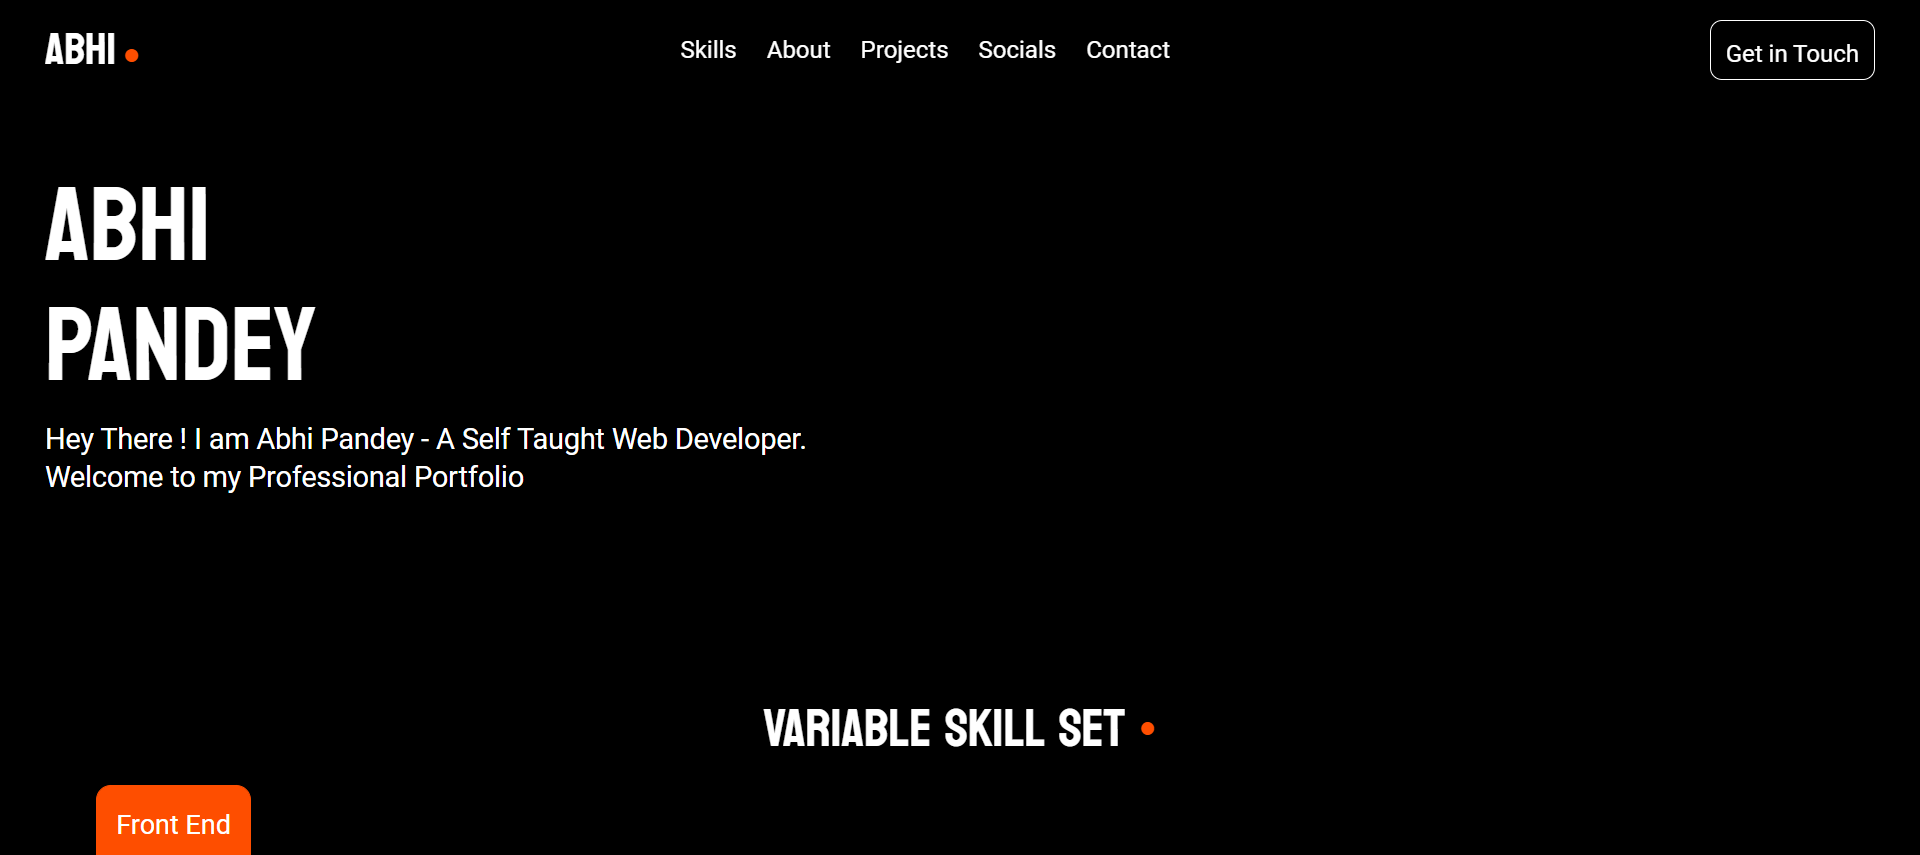
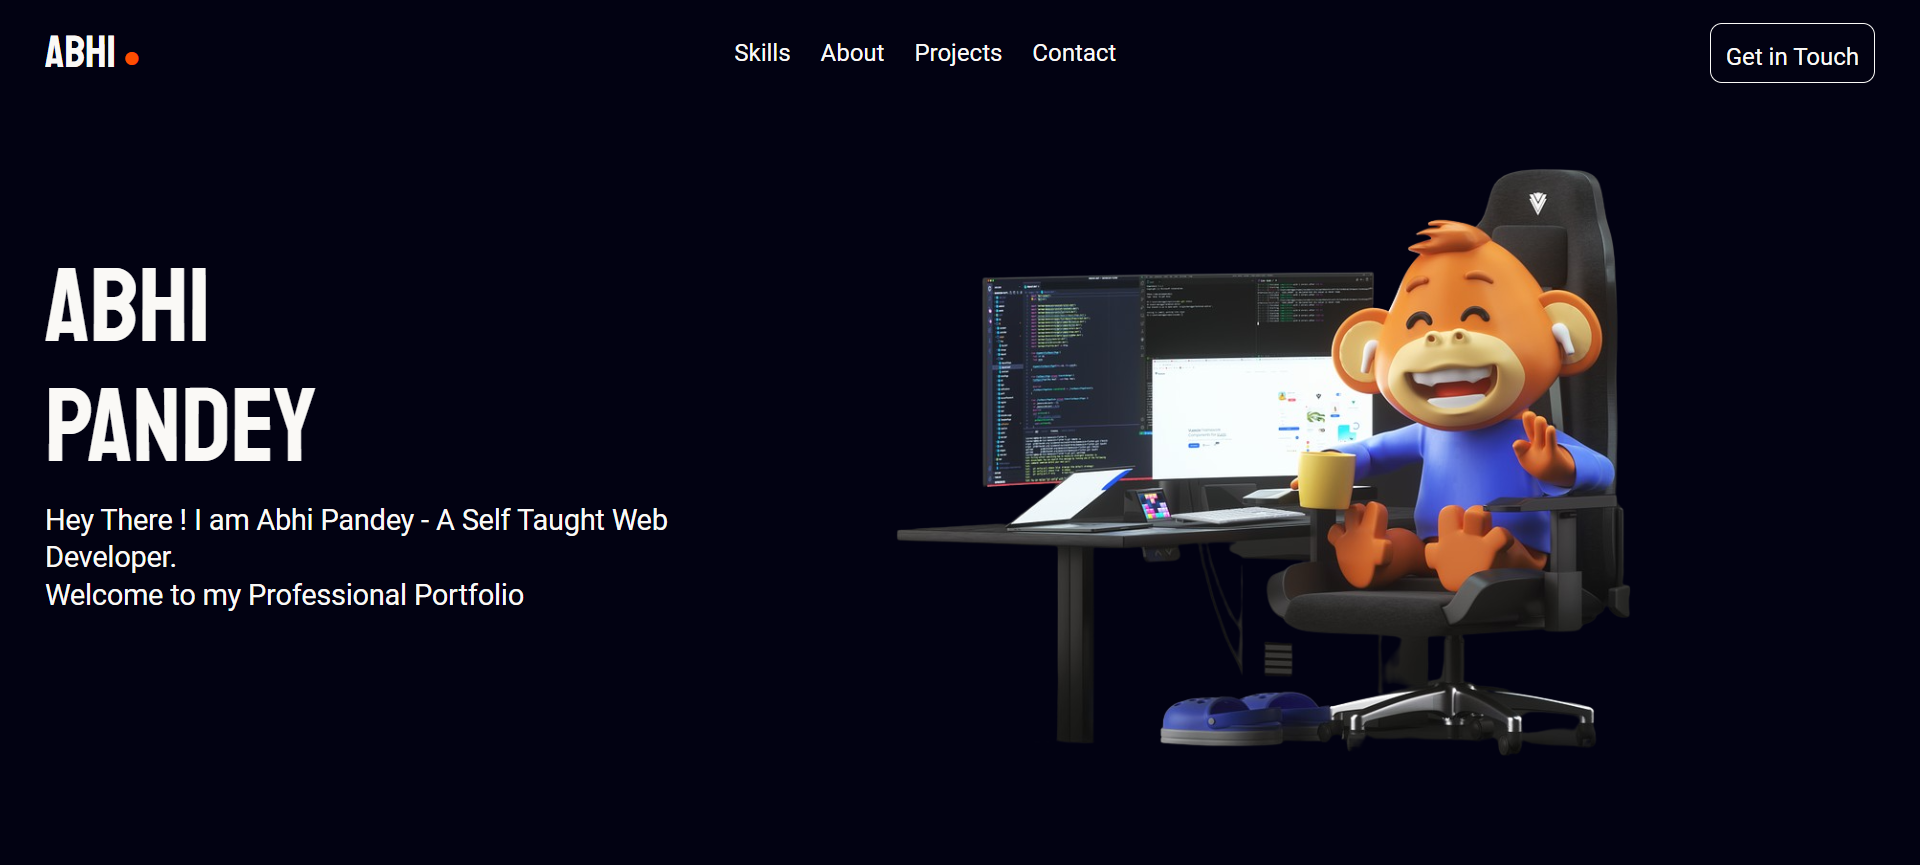
Added codemonk Image on landing page

diff --git a/src/App.css b/src/App.css
@@ -18,7 +18,7 @@
   display: flex;
   flex-direction: row;
   height: 70px;
-  background-color: rgba(0, 0, 0, 0.9);
+  background-color: #020212;
   /* background-color: inherit; */
   justify-content: space-between;
   align-items: center;
@@ -43,7 +43,7 @@
 }
 
 .navbarBtn {
-  border: 1px solid #fff;
+  border: 1px solid #faf9f6;
   padding: 10px;
   height: 40px;
   border-radius: 8px;
@@ -60,11 +60,19 @@
 .heroSection {
   margin-left: 30px;
   margin-right: 30px;
+  max-width: 100vw;
+  display: flex;
+  flex-direction: row;
+  justify-content: space-between;
+  align-items: center;
 }
 
 .heroIntro {
   margin-top: 130px;
   margin-bottom: 130px;
+  display: flex;
+  flex-direction: column;
+  justify-content: center;
 }
 
 .heroTitle {
@@ -78,6 +86,10 @@
   margin-top: 10px;
   line-height: 25px;
   font-size: 19px;
+}
+
+.heroImg {
+  width: 70%;
 }
 
 /* -------Skill Section CSS */
@@ -106,7 +118,7 @@
   width: 100%;
   justify-content: center;
   gap: 25px;
-  border: 1px solid #fff;
+  border: 1px solid #faf9f6;
   padding: 15px;
   border-radius: 10px;
   border-top-left-radius: 0px;
@@ -162,7 +174,7 @@
   font-weight: 500;
   font-size: 35px;
   font-family: bayon;
-  color: #ffffff;
+  color: #faf9f6;
   text-align: center;
   margin-left: 0vw;
 }
@@ -222,7 +234,7 @@
 
 .horLine1 {
   height: 6vw;
-  background-color: #fff;
+  background-color: #faf9f6;
   margin-top: 3vw;
   overflow: hidden;
   transform: skewY(-5deg);
@@ -232,7 +244,7 @@
 
 .horLine1 p {
   display: flex;
-  color: #000;
+  color: #020212;
   font-size: 4vw;
   font-family: bayon;
   font-weight: 100;
@@ -242,7 +254,7 @@
 
 .horLine p {
   display: flex;
-  color: #000;
+  color: #020212;
   font-size: 4vw;
   font-family: bayon;
   font-weight: 100;
@@ -263,7 +275,7 @@
   font-weight: 500;
   font-size: 35px;
   font-family: bayon;
-  color: #ffffff;
+  color: #faf9f6;
 }
 
 .projectMainContainer {
@@ -307,7 +319,7 @@
 
 .horLineFooter p {
   display: flex;
-  color: #000;
+  color: #020212;
   font-size: 4vw;
   font-family: bayon;
   font-weight: 100;
@@ -358,10 +370,10 @@
 }
 
 .links img {
-  background-color: #fff;
+  background-color: #faf9f6;
   width: 40px;
   border-radius: 20px;
-  border: 2px solid white;
+  border: 2px solid #faf9f6;
 }
 
 .footerRight {
@@ -397,6 +409,10 @@
 @media screen and (max-width: 600px) {
   .heroDesc {
     font-size: 15px;
+  }
+
+  .heroImg {
+    display: none;
   }
 
   .instaBox {

diff --git a/src/Components/HeroSection.jsx b/src/Components/HeroSection.jsx
@@ -1,4 +1,4 @@
-
+import logo from "../assets/heroSection/coderMonkey.png"
 
 const HeroSection = () => {
 
@@ -12,6 +12,9 @@ const HeroSection = () => {
                 <div className="heroDesc">
                     <p>Hey There ! I am Abhi Pandey - A Self Taught Web Developer. <br /> Welcome to my Professional Portfolio</p>
                 </div>
+            </div>
+            <div className="heroImg">
+                <img src={logo}/>
             </div>
         </div>
     )

diff --git a/src/index.css b/src/index.css
@@ -7,8 +7,8 @@
 body {
     margin: 0;
     max-width: 100%;
-    background-color: #000;
-    color: #fff;
+    background-color: #020212;
+    color: #faf9f6;
     font-family: roboto;
     scrollbar-width: none;
     scrollbar-color: transparent transparent;
